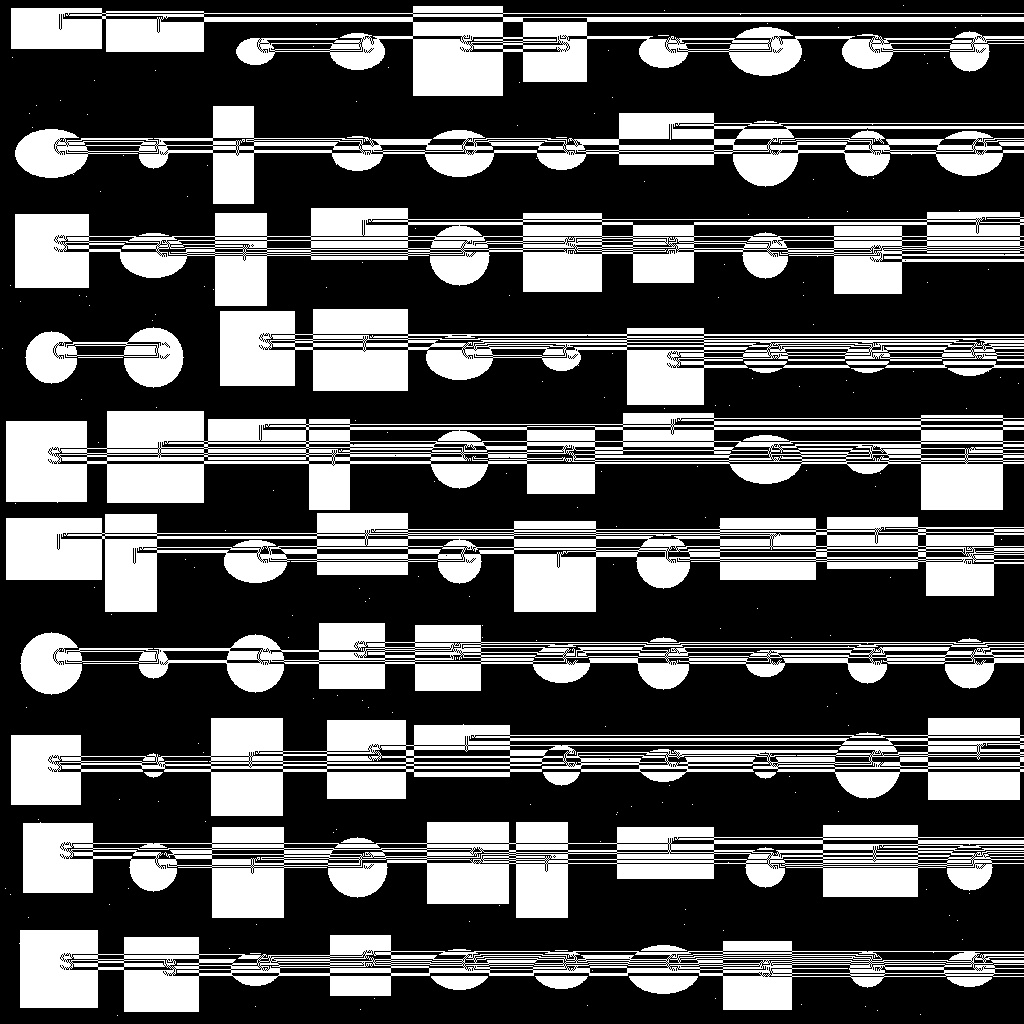
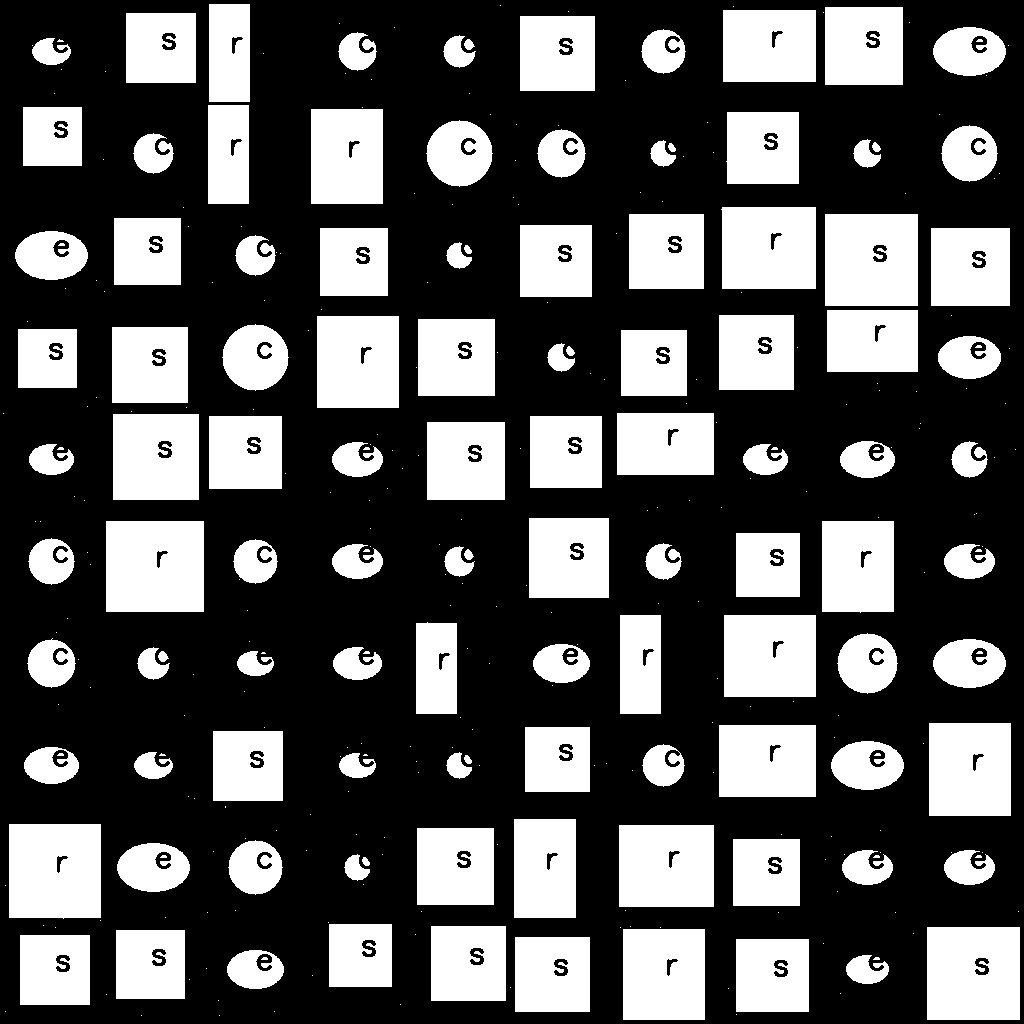
completed project

diff --git a/compression/run_length_encoding.py b/compression/run_length_encoding.py
@@ -15,11 +15,13 @@ class Rle:
         rle_code = []
         counter = 1
         rle_code.append(binary_image[0, 0])
+        # I noticed because of the anti aliasing from using LINE_AA in putText(), there are now gray values somehow which
+        # messed up my algorithm, so using different approach
         for y in range(binary_image.shape[0]):
             for x in range(binary_image.shape[1]):
                 # Check when current pixel is approaching end of image
                 if y != binary_image.shape[0]-1 and x == binary_image.shape[1]-1:
-                    if binary_image[y, x] == binary_image[y+1, 0]:
+                    if ((binary_image[y, x] > 128) and (binary_image[y+1, 0] > 128)) or ((binary_image[y, x] < 128) and (binary_image[y+1, 0] < 128)):
                         counter += 1
                     else:
                         rle_code.append(counter)
@@ -28,7 +30,7 @@ class Rle:
                 elif y == binary_image.shape[0]-1 and x == binary_image.shape[1]-1:
                     rle_code.append(counter)
                 else:
-                    if binary_image[y, x] == binary_image[y, x+1]:
+                    if ((binary_image[y, x] > 128) and (binary_image[y, x+1] > 128)) or ((binary_image[y, x] < 128) and (binary_image[y, x+1] < 128)):
                         counter += 1
                     else:
                         rle_code.append(counter)

diff --git a/region_analysis/shape_counting.py b/region_analysis/shape_counting.py
@@ -54,7 +54,8 @@ class ShapeCounting:
 
         final_dict = dict()
         for x in region.keys():
-            if len(region[x]) > 10:
+            # 40 instead of 10 to avoid extraneous regions
+            if len(region[x]) > 40:
                 shapes = dict()
                 pixel_count = len(region[x])
                 y_values = [p[0] for p in region[x]]
@@ -89,6 +90,7 @@ class ShapeCounting:
                             valid_region = False
                         else:
                             del final_dict[z]
+                            break
 
                 if valid_region == True:
                     print(shapes.items())
@@ -131,5 +133,5 @@ class ShapeCounting:
             y_coord = round(shapes_data[x]["Centroid (in terms of (y,x))"][0])
             x_coord = round(shapes_data[x]["Centroid (in terms of (y,x))"][1])
             dip.putText(labeled_image, shapes_data[x]["Shape"], (
-                int(x_coord), int(y_coord)), dip.FONT_HERSHEY_SIMPLEX, 1, (0, 0, 0), 1, dip.LINE_AA)
+                int(x_coord), int(y_coord)), dip.FONT_HERSHEY_SIMPLEX, 1, (0, 0, 0), 2, dip.LINE_AA)
         return labeled_image
